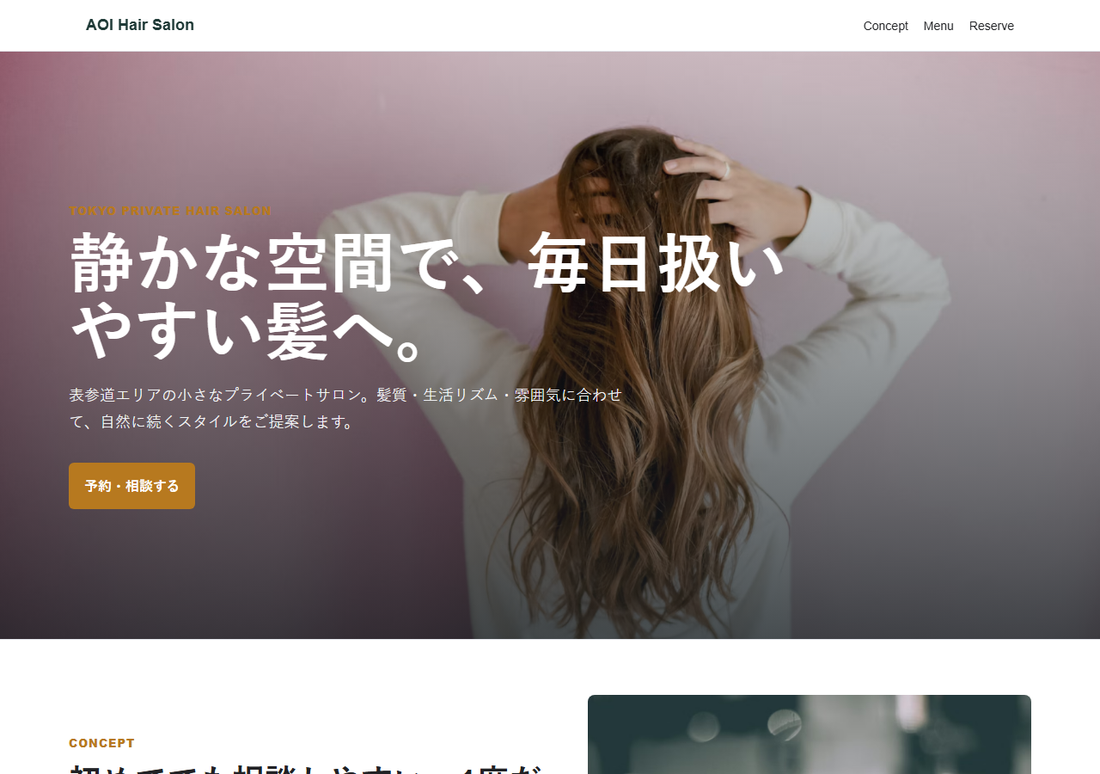
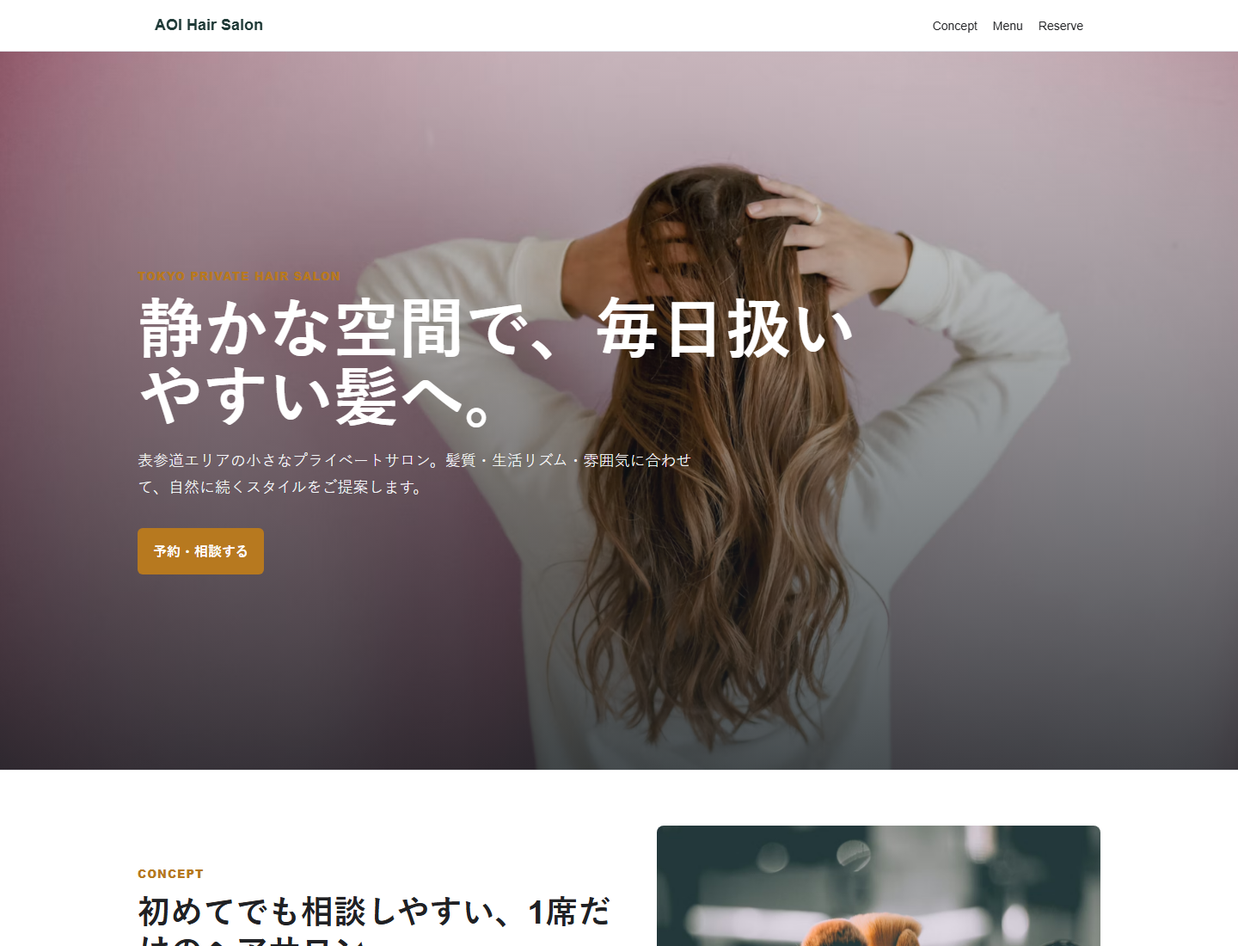
Clean public portfolio wording

diff --git a/index.html b/index.html
@@ -341,6 +341,7 @@
     @media(max-width:640px){
       nav{height:auto;align-items:flex-start;padding:12px 0;flex-direction:column}
       .navlinks{justify-content:flex-start}
+      .navlinks a{font-size:13px;padding:7px 8px}
       .hero-grid{padding-top:34px;padding-right:42px}
       .hero-grid > div:first-child{width:100%;max-width:320px;min-width:0}
       h1{font-size:29px;line-height:1.16}
@@ -367,7 +368,7 @@
         <div class="navlinks" aria-label="ページ内メニュー">
           <a href="#cases">制作サンプル</a>
           <a href="#packages">料金目安</a>
-          <a href="#covers">出品画像</a>
+          <a href="#service">サービス内容</a>
           <a href="#flow">進行方法</a>
         </div>
       </nav>
@@ -378,12 +379,12 @@
     <section class="hero">
       <div class="wrap hero-grid">
         <div>
-          <div class="eyebrow">小さく始める正式な1ページLP</div>
-          <h1>サービス内容が伝わる<br>店舗向けLPを、<br>スマホ基準で制作します。</h1>
+          <div class="eyebrow">サービス内容を整える1ページLP</div>
+          <h1>店舗向けLPを、<br>スマホ基準で制作します。</h1>
           <p class="lead">美容室、ネイル、整体、教室、民宿、相談サービスなど、SNSだけでは伝わりにくい料金・流れ・よくある質問・問い合わせ導線を1ページに整理します。電話会議なし、文章で進行できます。</p>
           <div class="hero-actions">
             <a class="btn teal" href="#cases">サンプルを見る</a>
-            <a class="btn secondary" href="#covers">出品用画像を見る</a>
+            <a class="btn secondary" href="#service">サービス内容を見る</a>
           </div>
           <div class="stats" aria-label="制作方針">
             <div class="stat"><strong>8</strong><span>公開サンプル</span></div>
@@ -395,7 +396,7 @@
           <div class="screen-stack">
             <div class="shot large"><img src="assets/case-salon-desktop.png" alt="美容室LPのデスクトップ表示"></div>
             <div class="shot small"><img src="assets/case-nail-desktop.png" alt="ネイルサロンLPの表示"></div>
-            <div class="shot mobile"><img src="assets/coconala-cover-mobile.png" alt="スマホ対応説明画像"></div>
+            <div class="shot mobile"><img src="assets/lp-service-cover-mobile.png" alt="スマホ対応画面"></div>
             <div class="label">スマホで読みやすい構成</div>
           </div>
         </div>
@@ -418,22 +419,22 @@
         </div>
 
         <div class="grid" id="caseGrid">
-          <article class="case" data-kind="jp" data-title="美容室 1ページLP" data-url="samples/jp-salon-site.html" data-problem="SNS投稿だけではメニュー、価格、予約前の不安が分散して伝わりにくい状態。" data-result="メニュー、料金、来店前の流れ、予約導線を1ページに整理。落ち着いた美容室向けの見た目で信頼感を出す構成。" data-price="初回向け: JPY 15,000">
+          <article class="case" data-kind="jp" data-title="美容室 1ページLP" data-url="samples/jp-salon-site.html" data-problem="SNS投稿だけではメニュー、価格、予約前の不安が分散して伝わりにくい状態。" data-result="メニュー、料金、来店前の流れ、予約導線を1ページに整理。落ち着いた美容室向けの見た目で信頼感を出す構成。" data-price="制作料金目安: JPY 15,000">
             <div class="case-shot"><img src="assets/case-salon-desktop.png" alt="美容室LPサンプル"></div>
             <div class="case-body"><span class="tag">日本向け</span><h3>美容室 1ページLP</h3><p>メニュー、料金、予約導線を自然に読ませる美容室向けサンプル。</p><div class="case-actions"><button class="smallbtn dark" data-detail>詳細</button><a class="smallbtn" href="samples/jp-salon-site.html">ページを開く</a></div></div>
           </article>
 
-          <article class="case" data-kind="jp" data-title="ネイルサロン 中日双语LP" data-url="samples/jp-nail-bilingual.html" data-problem="在日中国語ユーザーと日本語ユーザーの両方に、価格や予約方法を同じページで伝えたい。" data-result="日本語と中国語を混ぜすぎず、予約前に知りたい情報を短く整理。写真と料金表を中心にした構成。" data-price="初回向け: JPY 15,000">
+          <article class="case" data-kind="jp" data-title="ネイルサロン 中日双语LP" data-url="samples/jp-nail-bilingual.html" data-problem="在日中国語ユーザーと日本語ユーザーの両方に、価格や予約方法を同じページで伝えたい。" data-result="日本語と中国語を混ぜすぎず、予約前に知りたい情報を短く整理。写真と料金表を中心にした構成。" data-price="制作料金目安: JPY 15,000">
             <div class="case-shot"><img src="assets/case-nail-desktop.png" alt="ネイルサロン中日双语LPサンプル"></div>
             <div class="case-body"><span class="tag">日本向け</span><h3>ネイルサロン 中日双语LP</h3><p>在日華人客にも日本人客にも伝わるサービス紹介ページ。</p><div class="case-actions"><button class="smallbtn dark" data-detail>詳細</button><a class="smallbtn" href="samples/jp-nail-bilingual.html">ページを開く</a></div></div>
           </article>
 
-          <article class="case" data-kind="jp" data-title="整体院 予約導線LP" data-url="samples/jp-seitai-clinic.html" data-problem="初回来院前に症状、料金、施術の流れがわからず、問い合わせの心理的ハードルが高い。" data-result="症状別の悩み、施術メニュー、予約までの流れを1ページにまとめ、スマホで読みやすく整理。" data-price="初回向け: JPY 15,000">
+          <article class="case" data-kind="jp" data-title="整体院 予約導線LP" data-url="samples/jp-seitai-clinic.html" data-problem="初回来院前に症状、料金、施術の流れがわからず、問い合わせの心理的ハードルが高い。" data-result="症状別の悩み、施術メニュー、予約までの流れを1ページにまとめ、スマホで読みやすく整理。" data-price="制作料金目安: JPY 15,000">
             <div class="case-shot"><img src="assets/case-seitai-desktop.png" alt="整体院LPサンプル"></div>
             <div class="case-body"><span class="tag">日本向け</span><h3>整体院 予約導線LP</h3><p>症状、料金、予約の流れを整理した店舗LP。</p><div class="case-actions"><button class="smallbtn dark" data-detail>詳細</button><a class="smallbtn" href="samples/jp-seitai-clinic.html">ページを開く</a></div></div>
           </article>
 
-          <article class="case" data-kind="jp" data-title="民宿 中日双语紹介ページ" data-url="samples/jp-guesthouse-site.html" data-problem="部屋タイプ、価格、交通、周辺体験を海外ゲストにもわかりやすく伝える必要がある。" data-result="宿の特徴、部屋、アクセス、相談導線を1ページに整理。観光客が迷わない情報順序に調整。" data-price="初回向け: JPY 19,800">
+          <article class="case" data-kind="jp" data-title="民宿 中日双语紹介ページ" data-url="samples/jp-guesthouse-site.html" data-problem="部屋タイプ、価格、交通、周辺体験を海外ゲストにもわかりやすく伝える必要がある。" data-result="宿の特徴、部屋、アクセス、相談導線を1ページに整理。観光客が迷わない情報順序に調整。" data-price="制作料金目安: JPY 19,800">
             <div class="case-shot"><img src="assets/case-guesthouse-desktop.png" alt="民宿紹介ページサンプル"></div>
             <div class="case-body"><span class="tag">日本向け</span><h3>民宿 中日双语紹介ページ</h3><p>部屋、料金、交通、周辺情報を見やすくした宿泊向けサンプル。</p><div class="case-actions"><button class="smallbtn dark" data-detail>詳細</button><a class="smallbtn" href="samples/jp-guesthouse-site.html">ページを開く</a></div></div>
           </article>
@@ -464,34 +465,34 @@
     <section class="alt" id="packages">
       <div class="wrap">
         <div class="section-head">
-          <div><h2>最初の出品価格と範囲</h2><p>初期は価格を抑え、範囲を明確にして受注しやすくします。安く見せるのではなく、1ページに絞って納品リスクを下げる設計です。</p></div>
+          <div><h2>料金と制作範囲</h2><p>まずは1ページに絞り、サービス内容・料金・流れ・問い合わせ導線を分かりやすく整理します。</p></div>
         </div>
         <div class="packages">
-          <div class="package"><h3>Coconala 初回LP</h3><p>小規模店舗向けの1ページLP。日本語での出品用。</p><div class="price">15,000円</div><ul><li>最大5セクション</li><li>スマホ対応</li><li>文章整理込み</li><li>修正1回</li></ul></div>
+          <div class="package"><h3>1ページLP制作</h3><p>小規模店舗、教室、サロン、個人サービス向け。</p><div class="price">15,000円</div><ul><li>最大5セクション</li><li>スマホ対応</li><li>文章整理込み</li><li>修正1回</li></ul></div>
           <div class="package"><h3>中文落地页</h3><p>课程、咨询、餐饮、小服务商向け的中文页面。</p><div class="price">RMB 499起</div><ul><li>服务介绍</li><li>价格和流程</li><li>报名/咨询入口</li><li>3天初稿</li></ul></div>
           <div class="package"><h3>追加制作</h3><p>首个页面成交后，再追加更高客单价的功能。</p><div class="price">3,000円起</div><ul><li>追加セクション</li><li>追加修正</li><li>中日文章整理</li><li>管理画面デモ</li></ul></div>
         </div>
       </div>
     </section>
 
-    <section id="covers">
+    <section id="service">
       <div class="wrap">
         <div class="section-head">
-          <div><h2>Coconala 出品用画像</h2><p>出品ページでは長文を読まない人が多いため、1枚目で価格・対象・納期、2枚目以降で実績感・スマホ対応・範囲・流れを伝える構成にしています。</p></div>
+          <div><h2>サービス内容</h2><p>制作範囲、スマホ対応、進行方法を事前に明確にして、依頼後のやり取りを進めやすくします。</p></div>
         </div>
         <div class="covers">
           <div class="cover-gallery">
-            <div class="cover"><img src="assets/coconala-cover-main.png" alt="Coconalaメイン画像"><h3>01 メイン画像</h3><p>1ページLP、価格、3日目安を最初に伝える。</p></div>
-            <div class="cover"><img src="assets/coconala-cover-cases.png" alt="Coconalaケース画像"><h3>02 サンプル一覧</h3><p>店舗、教室、相談サービスの制作幅を見せる。</p></div>
-            <div class="cover"><img src="assets/coconala-cover-mobile.png" alt="Coconalaスマホ対応画像"><h3>03 スマホ対応</h3><p>買い手が一番気にする見やすさを説明。</p></div>
-            <div class="cover"><img src="assets/coconala-cover-included.png" alt="Coconala含まれる内容画像"><h3>04 含まれる内容</h3><p>文章整理、料金、FAQ、導線を明確化。</p></div>
-            <div class="cover"><img src="assets/coconala-cover-flow.png" alt="Coconala制作流れ画像"><h3>05 制作の流れ</h3><p>電話なし、トークルームで進行できる安心感。</p></div>
-            <div class="cover"><img src="assets/coconala-cover-scope.png" alt="Coconala範囲説明画像"><h3>06 範囲説明</h3><p>低価格プランの上限を先に示してトラブルを防ぐ。</p></div>
+            <div class="cover"><img src="assets/lp-service-cover-main.png" alt="1ページLP制作の概要"><h3>01 1ページLP</h3><p>対象、料金、納期、基本範囲を分かりやすく提示。</p></div>
+            <div class="cover"><img src="assets/lp-service-cover-cases.png" alt="制作できる業種例"><h3>02 業種例</h3><p>店舗、教室、サロン、個人サービスに対応。</p></div>
+            <div class="cover"><img src="assets/lp-service-cover-mobile.png" alt="スマホ対応画面"><h3>03 スマホ対応</h3><p>SNSリンクから見ても読みやすい構成。</p></div>
+            <div class="cover"><img src="assets/lp-service-cover-included.png" alt="含まれる制作内容"><h3>04 含まれる内容</h3><p>文章整理、料金、FAQ、問い合わせ導線を整理。</p></div>
+            <div class="cover"><img src="assets/lp-service-cover-flow.png" alt="制作の流れ"><h3>05 制作の流れ</h3><p>必要情報を確認し、初稿、修正、納品まで進行。</p></div>
+            <div class="cover"><img src="assets/lp-service-cover-scope.png" alt="制作範囲"><h3>06 制作範囲</h3><p>含まれる内容と別料金になる内容を明確化。</p></div>
           </div>
           <div class="cover-list">
-            <div class="cover"><h3>出品タイトル</h3><p>店舗向け1ページLPを制作します</p></div>
-            <div class="cover"><h3>キャッチコピー</h3><p>小規模店舗向け｜スマホ対応・3日目安</p></div>
-            <div class="cover"><h3>運用ルール</h3><p>相談と納品は利用中のプラットフォーム内で完結。外部連絡先は掲載しない。</p></div>
+            <div class="cover"><h3>対象</h3><p>美容室、ネイル、整体、教室、民宿、相談サービス。</p></div>
+            <div class="cover"><h3>進行</h3><p>必要情報を文章で確認し、電話会議なしで制作できます。</p></div>
+            <div class="cover"><h3>納品</h3><p>1回の修正を反映し、完成データとして納品します。</p></div>
           </div>
         </div>
       </div>
@@ -514,8 +515,8 @@
     <section id="trust">
       <div class="wrap">
         <div class="trust">
-          <div class="trust-box"><h2>AI感を出さない方針</h2><p>サービス説明では技術名を前面に出さず、買い手の悩み、料金、流れ、納品範囲を中心に見せます。画像も抽象的な装飾ではなく、実際のページ画面を使います。</p></div>
-          <div class="trust-box"><h2>平台内で安全に完結</h2><p>Coconala ではトークルームでやり取りし、電話や外部連絡先に頼らない進行にします。購入前に必要情報を明確にすることで、言語の不安も下げます。</p></div>
+          <div class="trust-box"><h2>内容を分かりやすく整理</h2><p>サービス内容、料金、流れ、よくある質問、問い合わせ導線を1ページにまとめ、初めて見る方にも伝わりやすくします。</p></div>
+          <div class="trust-box"><h2>文章で進められる制作</h2><p>店名、掲載内容、料金、写真、参考イメージを共有いただければ、電話会議なしで初稿制作まで進行できます。</p></div>
         </div>
       </div>
     </section>
@@ -523,12 +524,12 @@
 
   <footer>
     <div class="wrap footer-grid">
-      <div><strong>Northstar Web Studio</strong><br>制作サンプルポートフォリオ</div>
-      <div>連絡と取引は利用中のプラットフォーム内で行います。</div>
+      <div><strong>Northstar Web Studio</strong><br>店舗向けLP制作サンプル</div>
+      <div>店舗・教室・個人サービス向けの1ページLP制作。</div>
     </div>
   </footer>
 
-  <div class="sticky-cta"><span>Coconala向け: LP 15,000円</span><a href="#covers">出品画像</a></div>
+  <div class="sticky-cta"><span>1ページLP制作 15,000円</span><a href="#service">内容を見る</a></div>
 
   <dialog id="caseDialog">
     <div class="modal-head"><strong id="modalTitle">サンプル詳細</strong><button id="closeDialog" aria-label="閉じる">x</button></div>

diff --git a/samples/cn-consulting-page.html b/samples/cn-consulting-page.html
@@ -24,7 +24,7 @@
       <div class="card"><h3>面试辅导</h3><p><strong>适合：</strong>需要先用中文梳理思路，再准备日语回答的人。</p></div>
     </div></div></section>
     <section class="alt" id="flow"><div class="wrap split"><div><h2>把客户常问的问题放在页面里。</h2><p>咨询类服务最怕反复解释。这个页面把服务范围、价格、流程、FAQ 和预约入口集中展示，让客户先自我筛选，再发文字咨询。</p><div class="steps"><div class="step"><strong>1. 发当前情况：</strong>目标学校/签证类型、时间线、已有材料。</div><div class="step"><strong>2. 收到建议：</strong>确认服务范围、费用和需要补充的信息。</div><div class="step"><strong>3. 开始整理：</strong>用文字沟通推进，不需要电话会议。</div></div></div><div class="box"><h3>咨询页制作参考</h3><div class="price">RMB 499 起</div><p>1页、手机适配、含一次小修改、3天内交付。</p></div></div></section>
-    <section id="contact"><div class="wrap split"><div><h2>全程文字沟通，不需要电话会议。</h2><p>客户填写咨询目标、当前情况和联系方式后，我们整理页面结构并交付可公开访问的链接。</p><a class="btn" href="#contact">文字咨询页面制作</a></div><div><h2>FAQ</h2><div class="faq"><div><strong>没有完整文案可以做吗？</strong><br>可以，先用你的服务信息整理初稿。</div><div><strong>能加微信/邮箱咨询吗？</strong><br>可以，直接客户页面可放联系方式；平台订单需遵守平台规则。</div><div><strong>这个页面是样品吗？</strong><br>是 Northstar Web Studio 的咨询服务页样品，不代表真实咨询机构。</div></div></div></div></section>
+    <section id="contact"><div class="wrap split"><div><h2>全程文字沟通，不需要电话会议。</h2><p>客户填写咨询目标、当前情况和联系方式后，我们整理页面结构并交付可公开访问的链接。</p><a class="btn" href="#contact">文字咨询页面制作</a></div><div><h2>FAQ</h2><div class="faq"><div><strong>没有完整文案可以做吗？</strong><br>可以，先用你的服务信息整理初稿。</div><div><strong>适合哪些咨询服务？</strong><br>适合留学、课程、个人顾问等需要展示服务范围、流程和费用的页面。</div><div><strong>页面会包含哪些内容？</strong><br>包含服务介绍、咨询流程、费用说明、常见问题和文字咨询入口。</div></div></div></div></section>
   </main>
   <footer><div class="wrap">样品案例 | Northstar Web Studio</div></footer>
 </body>

diff --git a/samples/cn-restaurant-menu.html b/samples/cn-restaurant-menu.html
@@ -19,7 +19,7 @@
   <main>
     <section class="hero"><div class="wrap"><span class="tag">小餐饮 / 菜单页 / 地图入口</span><h1>把菜单、价格、地址和预约入口放到一页。</h1><p class="lead">适合小餐馆、外卖店、私房菜和中餐小店。客户不用翻朋友圈，打开链接就能看菜单和联系方式。</p><a class="btn" href="#order">查看预约方式</a></div></section>
     <section id="menu"><div class="wrap"><h2>推荐菜单</h2><div class="grid"><div class="dish"><h3>招牌牛肉面</h3><p>慢炖牛肉、手工面，可选辣度。</p><div class="price">¥1,280</div></div><div class="dish"><h3>麻辣拌套餐</h3><p>适合午餐和外卖，配米饭。</p><div class="price">¥1,080</div></div><div class="dish"><h3>双人小火锅</h3><p>晚餐推荐，需提前预约。</p><div class="price">¥3,980</div></div></div></div></section>
-    <section class="alt" id="info"><div class="wrap split"><div><h2>客户最常问的信息，提前写清楚。</h2><p>营业时间、地址、预约方式、外卖规则和支付方式集中展示，减少反复回复。</p><span class="pill">营业 11:00-21:00</span><span class="pill">支持预约</span><span class="pill">可外卖</span><span class="pill">中文/日文菜单</span></div><div class="box"><h3>页面制作参考</h3><p>一页菜单页、手机适配、含地图/预约/外卖入口。适合作为小餐饮客户低价启动页。</p><strong>RMB 499 起 / JPY 9,800 起</strong></div></div></section>
+    <section class="alt" id="info"><div class="wrap split"><div><h2>客户最常问的信息，提前写清楚。</h2><p>营业时间、地址、预约方式、外卖规则和支付方式集中展示，减少反复回复。</p><span class="pill">营业 11:00-21:00</span><span class="pill">支持预约</span><span class="pill">可外卖</span><span class="pill">中文/日文菜单</span></div><div class="box"><h3>页面制作参考</h3><p>一页菜单页、手机适配、含地图/预约/外卖入口。适合作为小餐饮客户的正式介绍页。</p><strong>RMB 499 起 / JPY 15,000 起</strong></div></div></section>
     <section id="order"><div class="wrap"><h2>预约和咨询入口</h2><p>请发送日期、人数、到店/外卖、联系方式。无需电话，也能完成咨询。</p><a class="btn" href="#order">文字咨询页面制作</a></div></section>
   </main>
   <footer><div class="wrap">样品案例 | Northstar Web Studio</div></footer>

diff --git a/lp-service-cover-cases.html b/lp-service-cover-cases.html
@@ -3,7 +3,7 @@
 <head>
   <meta charset="utf-8">
   <meta name="viewport" content="width=device-width, initial-scale=1">
-  <title>Coconala Cover Cases</title>
+  <title>LP Service Cover Cases</title>
   <style>
     *{box-sizing:border-box}
     body{margin:0;width:1220px;height:1240px;font-family:Arial,"Hiragino Kaku Gothic ProN","Yu Gothic",sans-serif;background:#111827;color:white;overflow:hidden}
@@ -22,11 +22,11 @@
     <p class="sub">内容、料金、予約までの流れを1ページに整理。初めてのWebページでも見やすい構成で制作します。</p>
     <div class="grid">
       <div class="shot"><img src="assets/case-salon-desktop.png" alt=""><b>美容室 / サロン</b><span>メニュー・料金・予約導線</span></div>
-      <div class="shot"><img src="assets/case-course-desktop.png" alt=""><b>教室 / レッスン</b><span>内容・料金・申込み導線</span></div>
-      <div class="shot"><img src="assets/case-consulting-desktop.png" alt=""><b>相談サービス</b><span>流れ・料金・FAQ</span></div>
+      <div class="shot"><img src="assets/case-seitai-desktop.png" alt=""><b>整体 / リラクゼーション</b><span>施術内容・料金・予約導線</span></div>
+      <div class="shot"><img src="assets/case-guesthouse-desktop.png" alt=""><b>民宿 / 体験サービス</b><span>施設紹介・料金・アクセス</span></div>
       <div class="shot"><img src="assets/case-nail-desktop.png" alt=""><b>ネイル / 個人サービス</b><span>日本語・中国語対応</span></div>
     </div>
-    <div class="notice">低予算でも、まず公開できる1ページを用意したい方向け</div>
+    <div class="notice">お店の内容を、初めてのお客様にも分かりやすく整理します</div>
   </div>
 </body>
 </html>

diff --git a/samples/cn-course-landing.html b/samples/cn-course-landing.html
@@ -48,7 +48,7 @@
     </div></div></section>
     <section class="alt" id="apply"><div class="wrap split">
       <div class="pricebox"><h2>入门体验班</h2><div class="price">RMB 499</div><p>4周 / 每周2次 / 小班练习 / 课后复习清单</p><a class="btn" href="#price">文字咨询报名</a></div>
-      <div><h2>常见问题</h2><div class="faq"><div><strong>没有基础可以吗？</strong><br>可以，适合 N5-N3 入门阶段。</div><div><strong>需要电话咨询吗？</strong><br>不需要，邮件或微信文字说明情况即可。</div><div><strong>这个页面是样品吗？</strong><br>是 Northstar Web Studio 的课程落地页样品，展示课程类客户可购买的页面结构。</div></div></div>
+      <div><h2>常见问题</h2><div class="faq"><div><strong>没有基础可以吗？</strong><br>可以，适合 N5-N3 入门阶段。</div><div><strong>需要电话咨询吗？</strong><br>不需要，可以通过文字方式说明学习目标和当前水平。</div><div><strong>适合哪些人？</strong><br>适合想把课程内容、价格、报名流程集中展示的课程服务。</div></div></div>
     </div></section>
   </main>
   <footer><div class="wrap">样品案例 | Northstar Web Studio</div></footer>

diff --git a/lp-service-cover-included.html b/lp-service-cover-included.html
@@ -3,7 +3,7 @@
 <head>
   <meta charset="utf-8">
   <meta name="viewport" content="width=device-width, initial-scale=1">
-  <title>Coconala Cover Included</title>
+  <title>LP Service Cover Included</title>
   <style>
     *{box-sizing:border-box}
     body{margin:0;width:1220px;height:1240px;font-family:Arial,"Hiragino Kaku Gothic ProN","Yu Gothic",sans-serif;background:#fff;color:#111827;overflow:hidden}
@@ -16,9 +16,9 @@
 </head>
 <body>
   <div class="canvas">
-    <span class="badge">基本プランに含まれる内容</span>
+    <span class="badge">制作に含まれる内容</span>
     <h1>1ページで必要情報を整理</h1>
-    <p class="sub">小さな予算でも、サービス内容・料金・流れ・問い合わせ導線を分かりやすく見せる構成で制作します。</p>
+    <p class="sub">サービス内容・料金・流れ・問い合わせ導線を、初めて見る方にも分かりやすい順番で整理します。</p>
     <div class="grid">
       <div class="item"><span>Section 01</span><b>トップメッセージ</b></div>
       <div class="item"><span>Section 02</span><b>サービス紹介</b></div>

diff --git a/lp-service-cover-main.html b/lp-service-cover-main.html
@@ -3,7 +3,7 @@
 <head>
   <meta charset="utf-8">
   <meta name="viewport" content="width=device-width, initial-scale=1">
-  <title>Coconala Cover Main</title>
+  <title>LP Service Cover Main</title>
   <style>
     *{box-sizing:border-box}
     body{margin:0;width:1220px;height:1240px;font-family:Arial,"Hiragino Kaku Gothic ProN","Yu Gothic",sans-serif;background:#f7f8fb;color:#111827;overflow:hidden}
@@ -22,10 +22,10 @@
 </head>
 <body>
   <div class="canvas">
-    <div class="badge">日本語・中国語対応 / メッセージだけで進行</div>
+    <div class="badge">小規模店舗向け / メッセージだけで進行</div>
     <h1>1ページLPを制作します</h1>
     <p class="sub">小規模店舗・教室・個人サービス向け。サービス内容、料金、流れ、問い合わせ導線をスマホで読みやすく整理します。</p>
-    <div class="price"><span>初回受付価格</span><b>9,800円</b></div>
+    <div class="price"><span>制作料金</span><b>15,000円</b></div>
     <div class="points">
       <div class="point">スマホ対応</div>
       <div class="point">3日目安</div>

diff --git a/lp-service-cover-flow.html b/lp-service-cover-flow.html
@@ -3,7 +3,7 @@
 <head>
   <meta charset="utf-8">
   <meta name="viewport" content="width=device-width, initial-scale=1">
-  <title>Coconala Cover Flow</title>
+  <title>LP Service Cover Flow</title>
   <style>
     *{box-sizing:border-box}
     body{margin:0;width:1220px;height:1240px;font-family:Arial,"Hiragino Kaku Gothic ProN","Yu Gothic",sans-serif;background:#101828;color:white;overflow:hidden}
@@ -26,7 +26,7 @@
       <div class="step"><div class="num">3</div><div><b>初稿制作</b><p>素材がそろってから3日目安で制作します。</p></div></div>
       <div class="step"><div class="num">4</div><div><b>修正1回・納品</b><p>軽微な修正を反映し、完成データで納品します。</p></div></div>
     </div>
-    <div class="foot">範囲が明確なので、低予算でも進めやすい</div>
+    <div class="foot">必要情報を整理して、スムーズに制作を進めます</div>
   </div>
 </body>
 </html>

diff --git a/lp-service-cover-scope.html b/lp-service-cover-scope.html
@@ -3,7 +3,7 @@
 <head>
   <meta charset="utf-8">
   <meta name="viewport" content="width=device-width, initial-scale=1">
-  <title>Coconala Cover Scope</title>
+  <title>LP Service Cover Scope</title>
   <style>
     *{box-sizing:border-box}
     body{margin:0;width:1220px;height:1240px;font-family:Arial,"Hiragino Kaku Gothic ProN","Yu Gothic",sans-serif;background:#fff;color:#111827;overflow:hidden}
@@ -16,7 +16,7 @@
 </head>
 <body>
   <div class="canvas">
-    <span class="badge">初回価格プランの範囲</span>
+    <span class="badge">制作範囲の確認</span>
     <h1>できること / 別料金になること</h1>
     <p class="sub">後からトラブルにならないよう、最初に制作範囲を明確にします。</p>
     <div class="columns">

diff --git a/samples/jp-guesthouse-site.html b/samples/jp-guesthouse-site.html
@@ -52,7 +52,7 @@
         <span class="kicker">Rooms</span>
         <h2>料金と部屋タイプがすぐ分かる。</h2>
         <div class="grid">
-          <div class="card"><h3>Standard</h3><p>1-2名向け。観光中心の短期滞在に。</p><div class="price">¥9,800〜</div></div>
+          <div class="card"><h3>Standard</h3><p>1-2名向け。観光中心の短期滞在に。</p><div class="price">¥15,000〜</div></div>
           <div class="card"><h3>Family</h3><p>3-4名向け。家族旅行や友人旅行に。</p><div class="price">¥16,800〜</div></div>
           <div class="card"><h3>Long Stay</h3><p>7泊以上の相談に対応。清掃回数も調整可能。</p><div class="price">相談</div></div>
         </div>

diff --git a/samples/jp-salon-site.html b/samples/jp-salon-site.html
@@ -80,7 +80,7 @@
       <div class="wrap split">
         <div>
           <span class="kicker">Reserve</span>
-          <h2>予約はメールまたはフォームで完結。</h2>
+          <h2>予約相談は文字またはフォームで完結。</h2>
           <p>電話が苦手な方でも、希望日時・メニュー・髪のお悩みを送るだけで予約相談できます。</p>
           <p class="note">このページは Northstar Web Studio のサンプルです。実店舗ではありません。</p>
           <a class="btn" href="#reserve">文字で相談する</a>

diff --git a/lp-service-cover-mobile.html b/lp-service-cover-mobile.html
@@ -3,7 +3,7 @@
 <head>
   <meta charset="utf-8">
   <meta name="viewport" content="width=device-width, initial-scale=1">
-  <title>Coconala Cover Mobile</title>
+  <title>LP Service Cover Mobile</title>
   <style>
     *{box-sizing:border-box}
     body{margin:0;width:1220px;height:1240px;font-family:Arial,"Hiragino Kaku Gothic ProN","Yu Gothic",sans-serif;background:#f8fafc;color:#111827;overflow:hidden}
